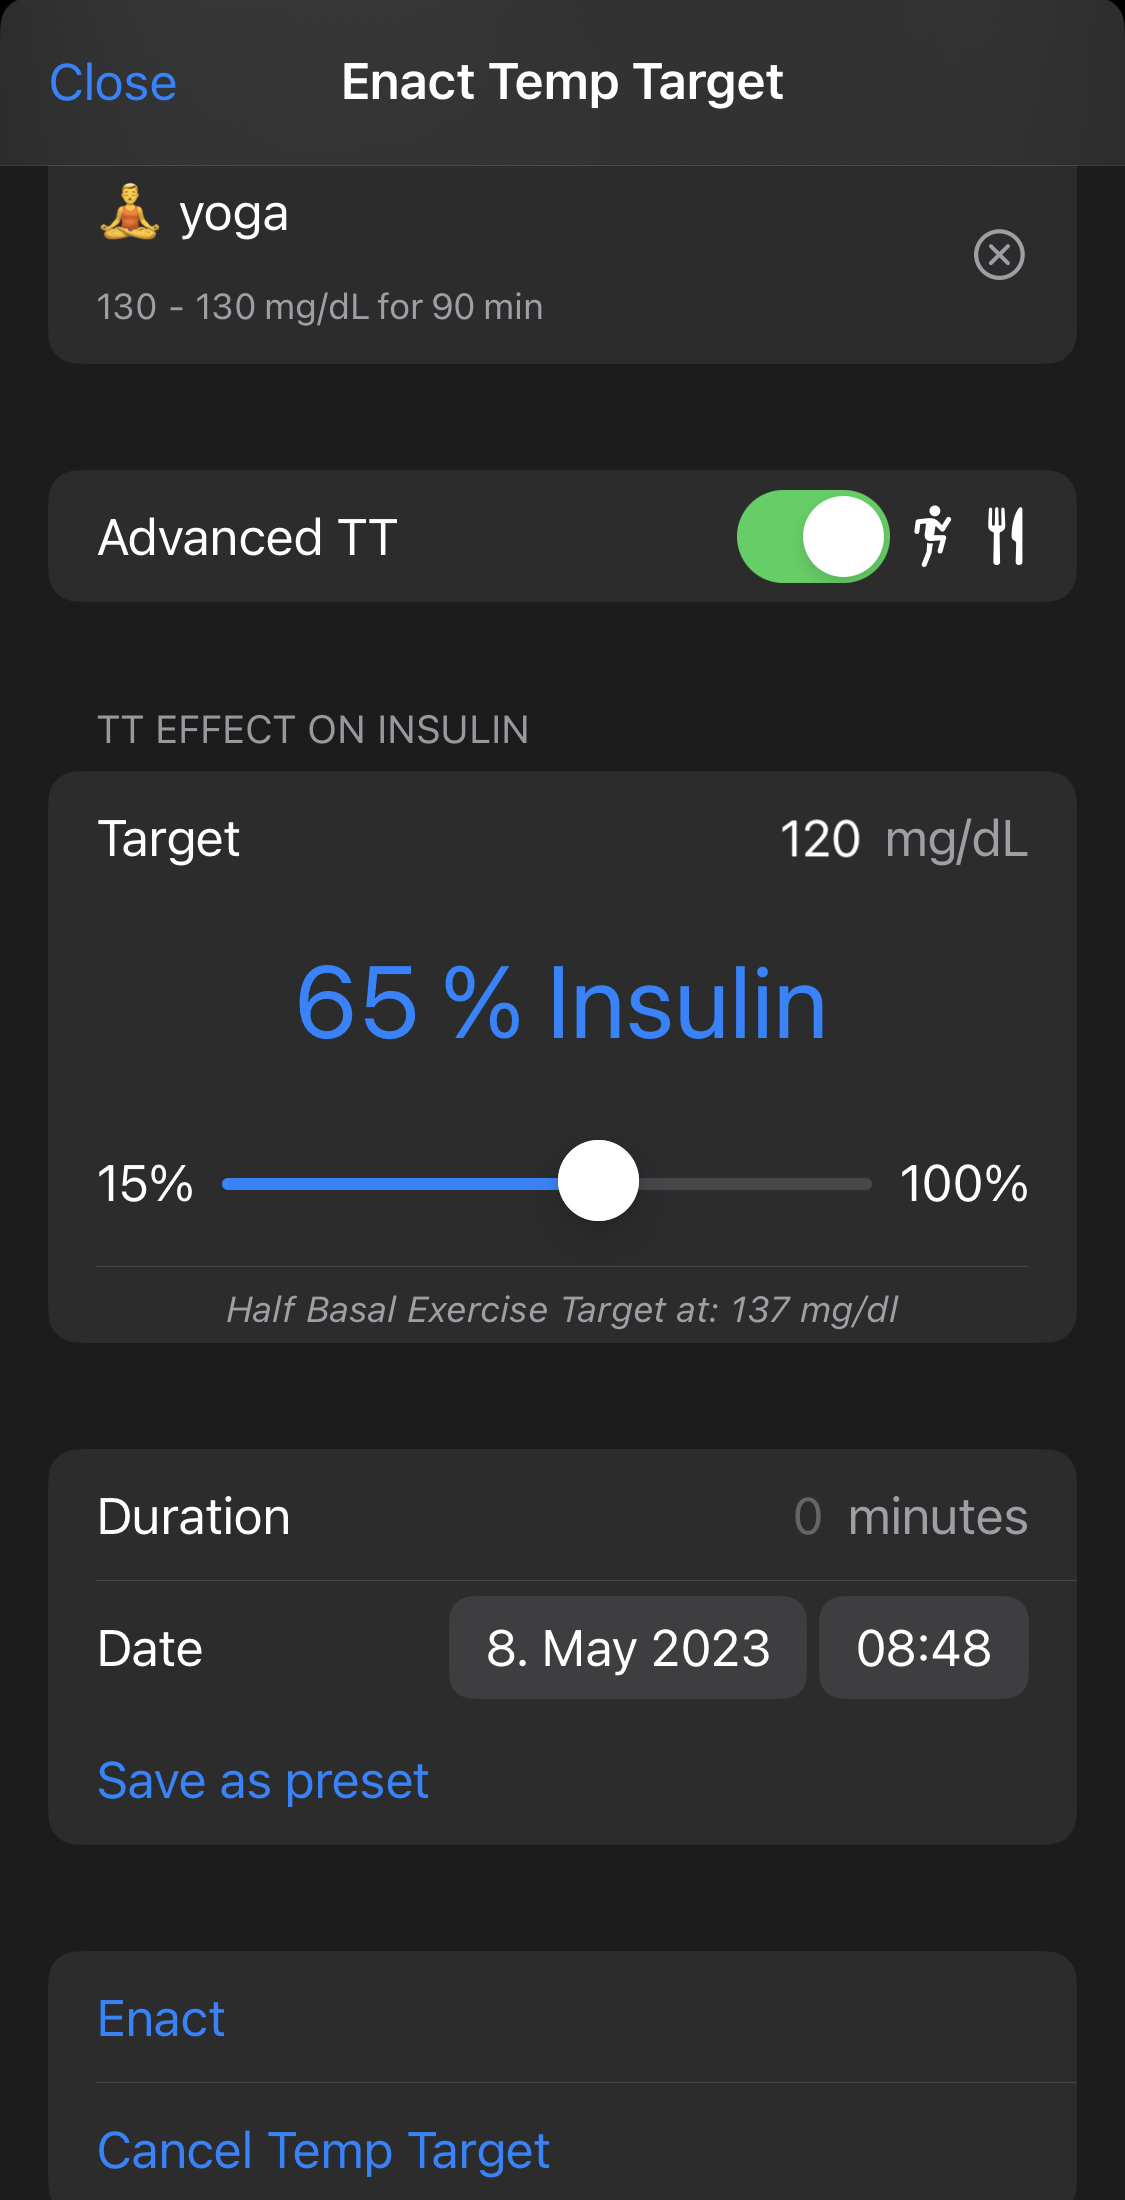
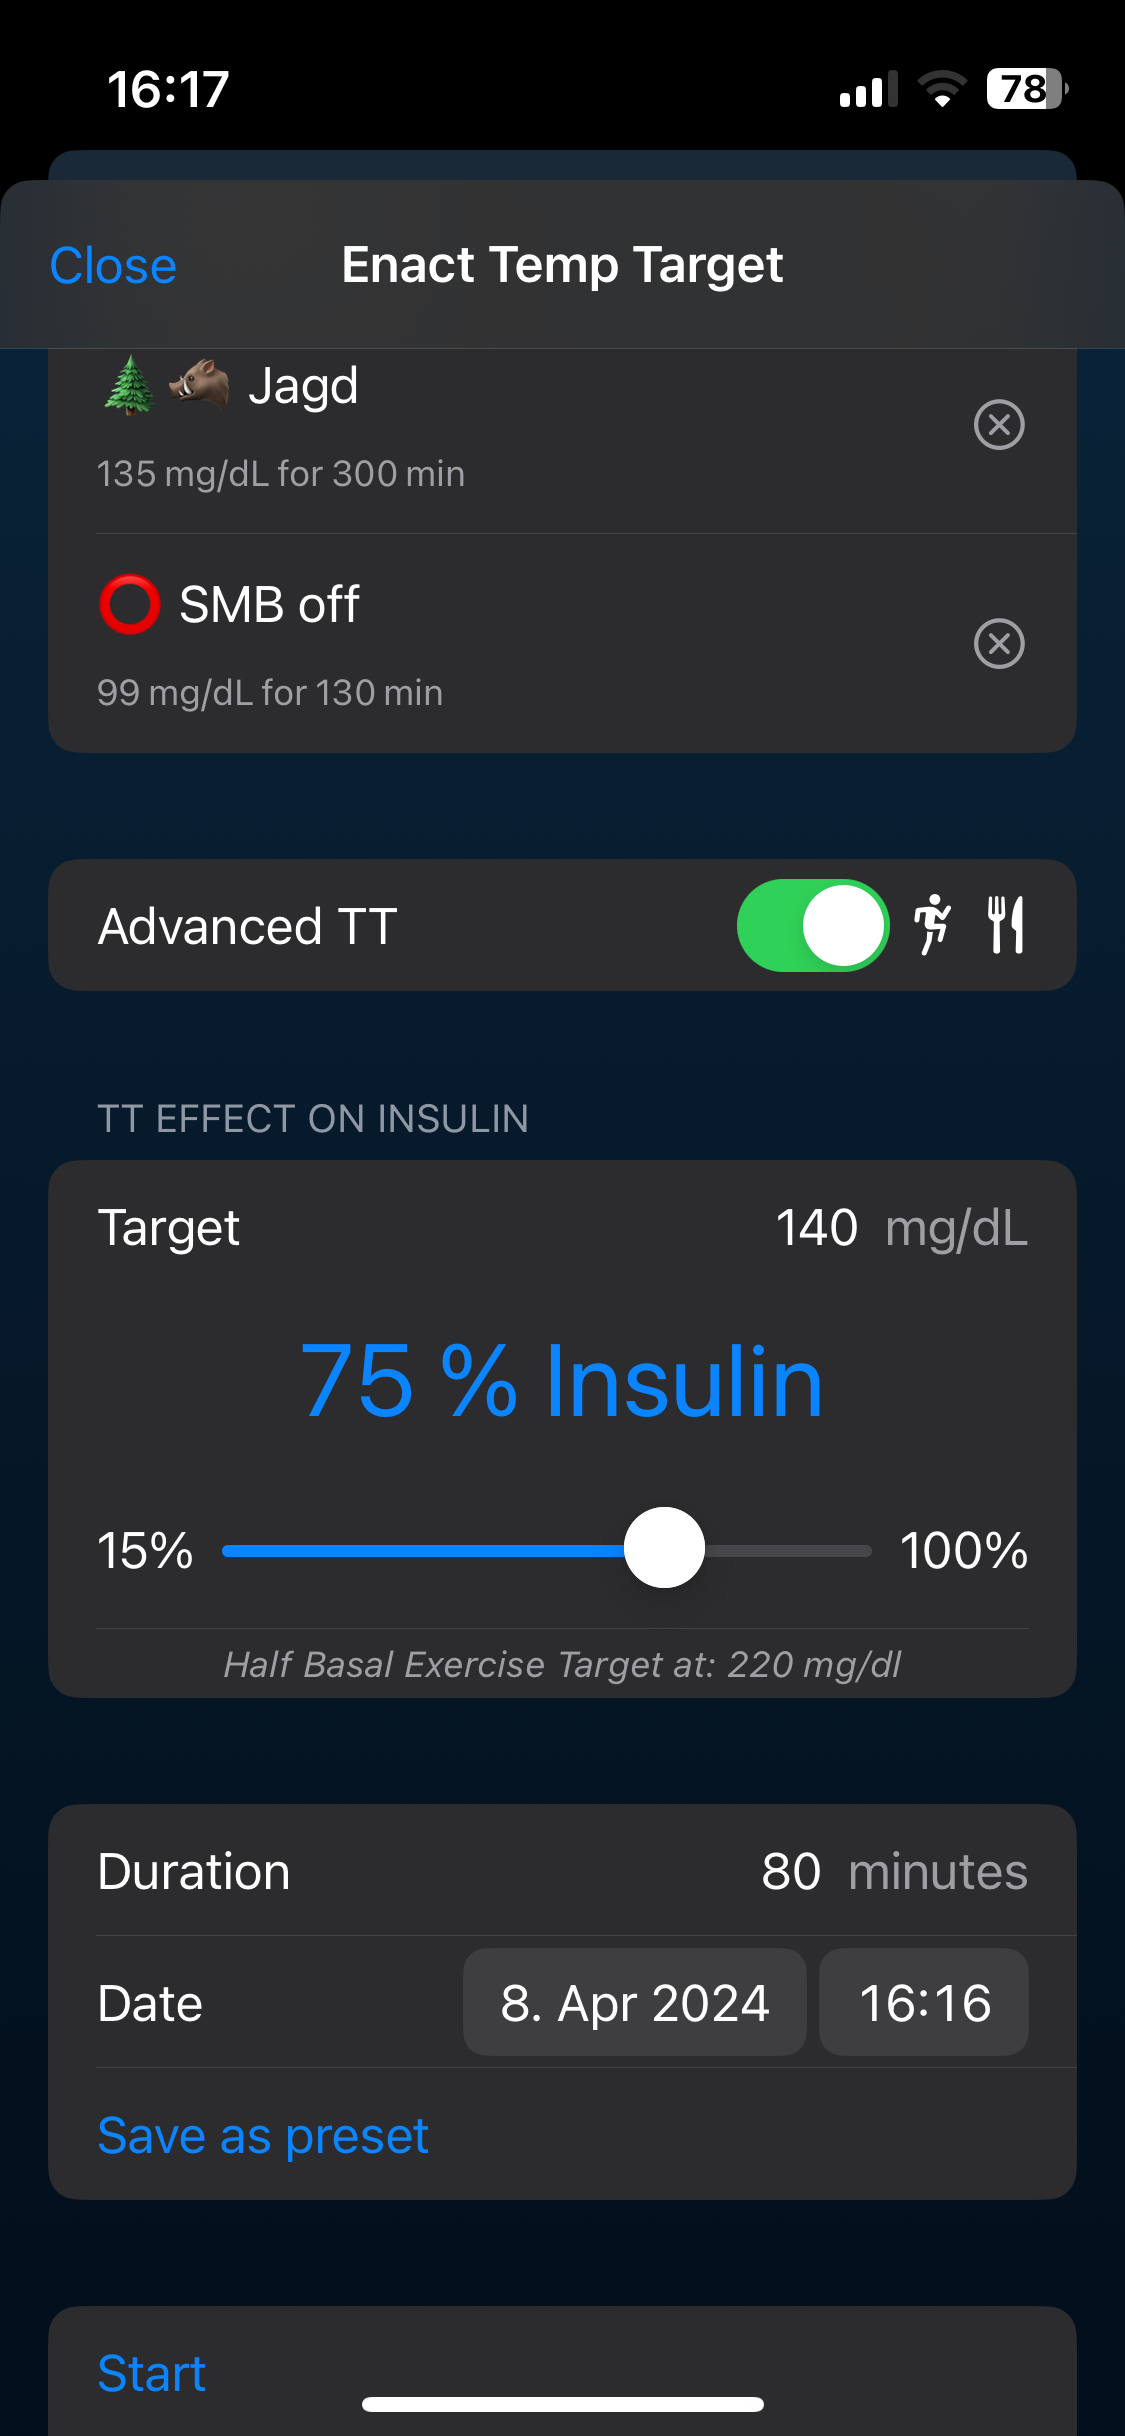
Update README.md screenshot updates
Garmin Screen

Rename iAPS_iPhone_05.PNG to iAPS_iPhone_05.png
Rename iAPS_iPhone_06.PNG to iAPS_iPhone_06.png
Update iAPS_iPhone_06.png
widget screen

screen

diff --git a/README.md b/README.md
@@ -1,4 +1,4 @@
-# iAPS with autoISF
+# iAPS with autoISF new UI
 
 ## Introduction
 
@@ -52,6 +52,14 @@ on iPhone 13 mini:
 	 />
 <img src="iAPS_iPhone_04.png"
      alt="advanced exercise TTs - missing prefs"
+	 width=350
+	 />
+<img src="iAPS_iPhone_05.png"
+     alt="autoISF history"
+	 width=350
+	 />
+<img src="iAPS_iPhone_06.png"
+     alt="LockScreen Live Activity Widget"
 	 width=350
 	 />
 
